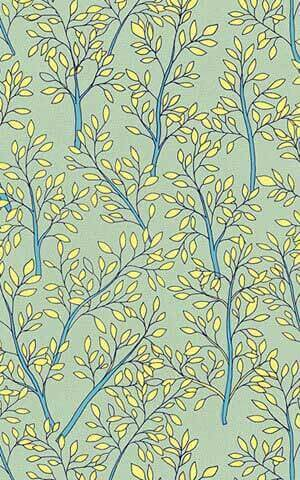
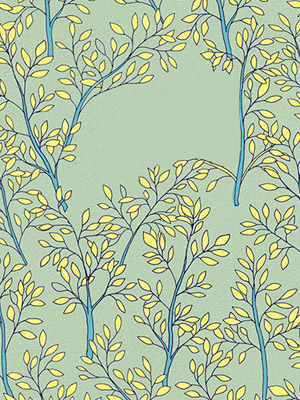
changed bg image

diff --git a/SMOKE/smoke_EN-US/smoke_300x250_en-us/Animation.js b/SMOKE/smoke_EN-US/smoke_300x250_en-us/Animation.js
@@ -54,7 +54,7 @@ home_animation = (function() {
 	{
 		TweenLite.to(first_text, .9, {opacity:0, top:-200, delay: 3});
 		TweenLite.to(product_text, 1, {top:-5, delay:3});	
-		TweenLite.to(bg, 1, {top:-231, delay:3});
+		TweenLite.to(bg, 1, {top:-150, delay:3});
 		TweenLite.to(white_BG, .6, {top:200, delay:4.9});
 		TweenLite.to(product_text, .3, {top:-20, delay:5.2});	
 		TweenLite.to(second_text, 3, {opacity:1, delay:6, ease: Expo.easeOut});		

diff --git a/SMOKE/smoke_FR-CA/smoke_300x250_fr-ca/Animation.js b/SMOKE/smoke_FR-CA/smoke_300x250_fr-ca/Animation.js
@@ -54,7 +54,7 @@ home_animation = (function() {
 	{
 		TweenLite.to(first_text, .9, {opacity:0, top:-200, delay: 3});
 		TweenLite.to(product_text, 1, {top:-5, delay:3});	
-		TweenLite.to(bg, 1, {top:-231, delay:3});
+		TweenLite.to(bg, 1, {top:-150, delay:3});
 		TweenLite.to(white_BG, .6, {top:195, delay:4.9});
 		TweenLite.to(product_text, .3, {top:-20, delay:5.2});	
 		TweenLite.to(second_text, 3, {opacity:1, delay:6, ease: Expo.easeOut});		

diff --git a/SMOKE/smoke_FR-FR/smoke_300x250_fr-fr/Animation.js b/SMOKE/smoke_FR-FR/smoke_300x250_fr-fr/Animation.js
@@ -54,7 +54,7 @@ home_animation = (function() {
 	{
 		TweenLite.to(first_text, .9, {opacity:0, top:-200, delay: 3});
 		TweenLite.to(product_text, 1, {top:-5, delay:3});	
-		TweenLite.to(bg, 1, {top:-231, delay:3});
+		TweenLite.to(bg, 1, {top:-150, delay:3});
 		TweenLite.to(white_BG, .6, {top:200, delay:4.9});
 		TweenLite.to(product_text, .3, {top:-20, delay:5.2});	
 		TweenLite.to(second_text, 3, {opacity:1, delay:6, ease: Expo.easeOut});		

diff --git a/SMOKE/smoke_NL-NL/smoke_300x250_nl-nl/Animation.js b/SMOKE/smoke_NL-NL/smoke_300x250_nl-nl/Animation.js
@@ -54,7 +54,7 @@ home_animation = (function() {
 	{
 		TweenLite.to(first_text, .9, {opacity:0, top:-200, delay: 3});
 		TweenLite.to(product_text, 1, {top:-5, delay:3});	
-		TweenLite.to(bg, 1, {top:-231, delay:3});
+		TweenLite.to(bg, 1, {top:-150, delay:3});
 		TweenLite.to(white_BG, .6, {top:200, delay:4.9});
 		TweenLite.to(product_text, .3, {top:-20, delay:5.2});	
 		TweenLite.to(second_text, 3, {opacity:1, delay:6, ease: Expo.easeOut});		
